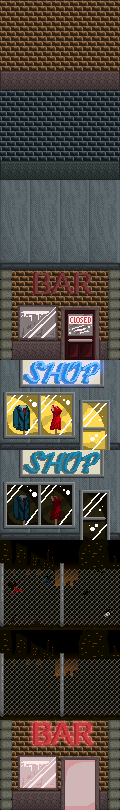
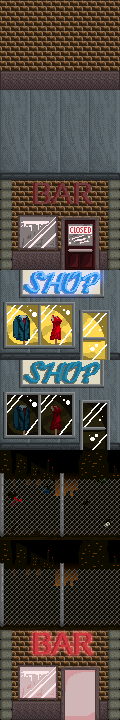
Add patrons to bars and fix entrance hitbox

diff --git a/player.cpp b/player.cpp
@@ -98,9 +98,9 @@ void Player::update(bool increase_anim_time)
                 if (pos[0] < -292) pos[0] = -292;
                 if (pos[1] < 70) pos[1] = 70;
                 else if (pos[1] > 156) pos[1] = 156;
-
-                update_camera();
             }
+
+            update_camera();
 
             if (last_pos[0] != pos[0]) flipped = last_pos[0] > pos[0];
         }
@@ -187,6 +187,7 @@ void Player::save_pos()
     saved_pos[1] = pos[1];
 }
 
+// TODO (Junber#1#): Add "death" screen
 void Player::kill()
 {
     pos[0] = saved_pos[0];
@@ -212,20 +213,27 @@ void Player::drink(int alcohol)
         else if (drunk_level == 3)
         {
             drunkenness::auto_running = false;
+            camera_x_offset = 0;
             drunkenness::blick_frequency = 800;
         }
         else if (drunk_level == 4)
         {
-            drunkenness::blur = 10;
+            drunkenness::blur = 30;
             drunkenness::base_movement_speed = -2;
             drunkenness::swaying = 1800;
             drunkenness::blick_frequency = 500;
         }
         else if (drunk_level == 5)
         {
+            drunkenness::blur = 10;
             drunkenness::base_movement_speed = -3;
             drunkenness::random_keys = true;
             drunkenness::swaying = 900;
+        }
+        else
+        {
+// TODO (Junber#1#): Add win screen
+            breakk = true;
         }
 
         drunkenness::movement_speed = drunkenness::base_movement_speed;

diff --git a/background.cpp b/background.cpp
@@ -27,6 +27,7 @@ Background::~Background()
 
 int walls_end_at=-window[0], sidewalks_end_at=-window[0], streets_end_at=-window[0], sidewalks_since_lantern=0, walls_since_bar=0;
 
+// TODO (Junber#1#): Dont have obstacles too close to start
 bool add_new_backgrounds()
 {
     bool did_something=false;
@@ -36,16 +37,16 @@ bool add_new_backgrounds()
         auto b = new Background(walls_end_at,0,"wall",true);
 
         walls_since_bar++;
-        if (walls_since_bar > 40-player->drunk_level*5)
+        if (walls_since_bar > 22-player->drunk_level*3)
         {
             auto d = new Background(walls_end_at+65,40,"door",true);
-            b->cur_anim_frame=8;
-            new Entrance(walls_end_at+65,0,30,b->size[1]+80,d);
+            b->cur_anim_frame=7;
+            new Entrance(walls_end_at+65,0,30,b->size[1]+90,d);
             walls_since_bar = 0;
         }
         else
         {
-            b->cur_anim_frame=random(0,7);
+            b->cur_anim_frame=random(0,6);
             if (b->cur_anim_frame <= 2 && !random(0,1)) new Background(walls_end_at+random(10,b->size[0]-50),random(10,b->size[1]-60),"poster",true);
         }
 

diff --git a/entrance.cpp b/entrance.cpp
@@ -18,8 +18,28 @@ Entrance::Entrance(int x, int y, int sx, int sy, Background* door_to_be_opened):
 
 void Entrance::enter()
 {
+    int patron_num = 5-player->drunk_level+(player->alcohol_points < 7), img_num;
+    switch (patron_num)
+    {
+    case 5:
+    case 0:
+        img_num = 0;
+        break;
+    case 4:
+        img_num = random(0,4);
+        break;
+    case 3:
+        img_num = random(0,7);
+        break;
+    case 2:
+        img_num = random(0,9);
+        break;
+    case 1:
+        img_num = random(0,4);
+    }
+
     player->save_pos();
-    dialog("test", load_image("bar"));
+    dialog("test", load_image("bar_"+std::to_string(patron_num)+std::to_string(img_num)));
     delete this;
 }
 

diff --git a/rendering.cpp b/rendering.cpp
@@ -44,6 +44,7 @@ SDL_Texture* load_image(std::string s)
 }
 
 int blick_progress = -1;
+// TODO (Junber#1#): Make blinking faster for low level
 void blinking()
 {
     if (blick_progress >= 0)
@@ -86,6 +87,7 @@ bool sort_criteria(Object* a, Object* b)
     return a->pos[1]+a->hitbox_offset[1] < b->pos[1]+b->hitbox_offset[1];
 }
 
+// TODO (Junber#1#): Add drunkenness UI
 void render()
 {
     for (Background* o: backgrounds)

diff --git a/hitbox.cpp b/hitbox.cpp
@@ -33,7 +33,7 @@ Hitbox::Hitbox(int x, int y, std::string s, bool load_as_animation, bool adjust_
 
 void Hitbox::update(bool increase_anim_time)
 {
-    if (collides(player))
+    if (player->is_in_control() && collides(player))
     {
         if (drunkenness::auto_running) player->kill();
         else

diff --git a/dialog.cpp b/dialog.cpp
@@ -35,7 +35,9 @@ void load_drinks()
 
 drink* random_drink()
 {
-    return drinks[random(0,drinks.size()-1)];
+    drink* d = drinks[random(0,drinks.size()-1)];
+    remove_it(&drinks,d);
+    return d;
 }
 
 bool visual_novel(SDL_Texture* tex, std::string text, std::string text2, bool player)

diff --git a/base.cpp b/base.cpp
@@ -12,6 +12,7 @@ void limit_fps()
     last_time = SDL_GetTicks();
 }
 
+// TODO (Junber#1#): Do something with stumble
 namespace drunkenness
 {
     int blick_frequency = 1200000, blur = 255, swaying=0;

diff --git a/main.cpp b/main.cpp
@@ -51,6 +51,7 @@ void update()
     if (delete_all_the_shit)
     {
         while (!delete_on_restart.empty()) delete delete_on_restart[0];
+        delete_all_the_shit = false;
     }
 }
 

diff --git a/sound.cpp b/sound.cpp
@@ -4,6 +4,7 @@
 #include <map>
 
 int sfx_volume, music_volume;
+// TODO (Junber#1#): Add sounds and more music
 
 void load_option_sound(std::string s, std::string s2)
 {
